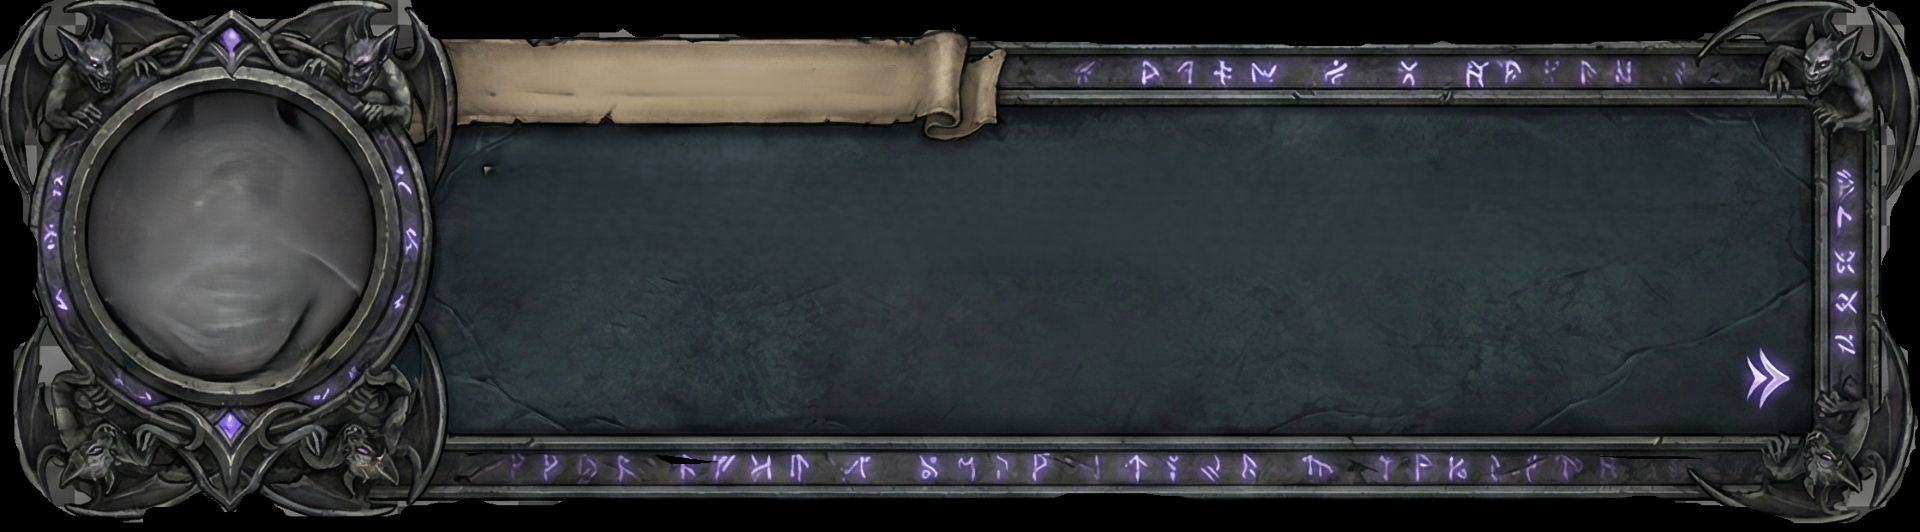
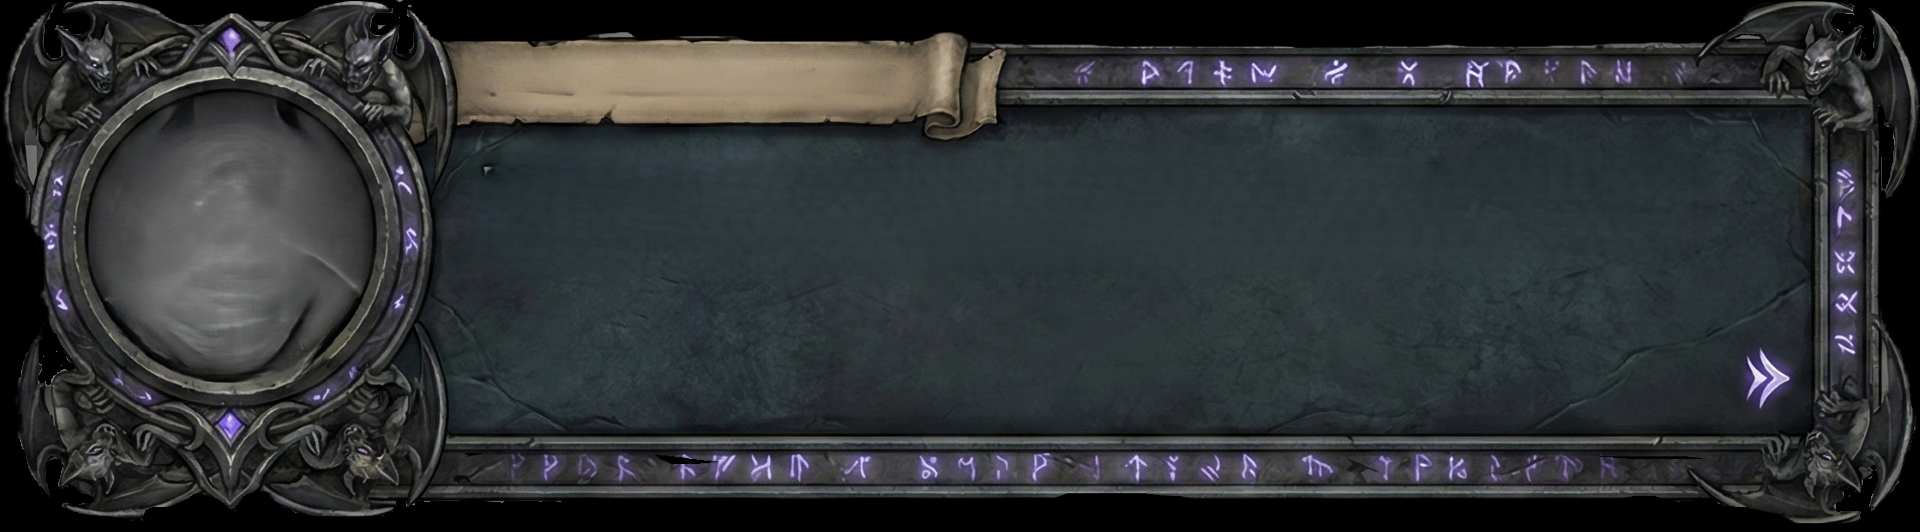
chore: dialogue box updated.

diff --git a/src/dialogue.hpp b/src/dialogue.hpp
@@ -13,10 +13,6 @@ using namespace Resources::AvatarResource;
 using namespace Resources::DialogueResource;
 using namespace Resources::DialogueBoxResource;
 
-// ============================================================
-// STRUCTS & CLASSES
-// ============================================================
-
 struct choice
 {
 	int choiceID;
@@ -65,10 +61,6 @@ class StoryDialogues
 		endDialogueFile = "";
 	}
 };
-
-// ============================================================
-// DIALOGUE PARSER
-// ============================================================
 
 class DialogueParser
 {
@@ -187,10 +179,6 @@ class DialogueParser
 		return story;
 	}
 };
-
-// ============================================================
-// DIALOGUE BOX
-// ============================================================
 
 class DialogueBox
 {
@@ -356,11 +344,23 @@ class DialogueBox
 		}
 		if (!boxTextureLoaded)
 		{
-			boxTexture = LoadTexture(DB_IMAGE.c_str());
-			boxTextureLoaded = true;
+			// Load image first
+			Image boxImage = LoadImage(DB_IMAGE.c_str());
+
+			if (boxImage.data != nullptr)
+			{
+				// Replace black with transparent
+				Color black = {0, 0, 0, 255};
+				Color transparent = {0, 0, 0, 0};
+				ImageColorReplace(&boxImage, black, transparent);
+
+				// Load texture from processed image
+				boxTexture = LoadTextureFromImage(boxImage);
+				UnloadImage(boxImage);
+				boxTextureLoaded = true;
+			}
 		}
 	}
-
 	// ===== START DIALOGUE =====
 	void StartDialogue(const string &filename)
 	{
@@ -484,7 +484,6 @@ class DialogueBox
 		Texture2D avatarTexture = GetAvatarTexture(currentDialogue->getAvatarPath());
 
 		// Draw background
-		DrawRectangle(0, 700, 1920, 500, BLACK);
 		DrawTexturePro(boxTexture, {0, 0, (float)boxTexture.width, (float)boxTexture.height},
 					   boxDest, {0, 0}, 0.0f, WHITE);
 
